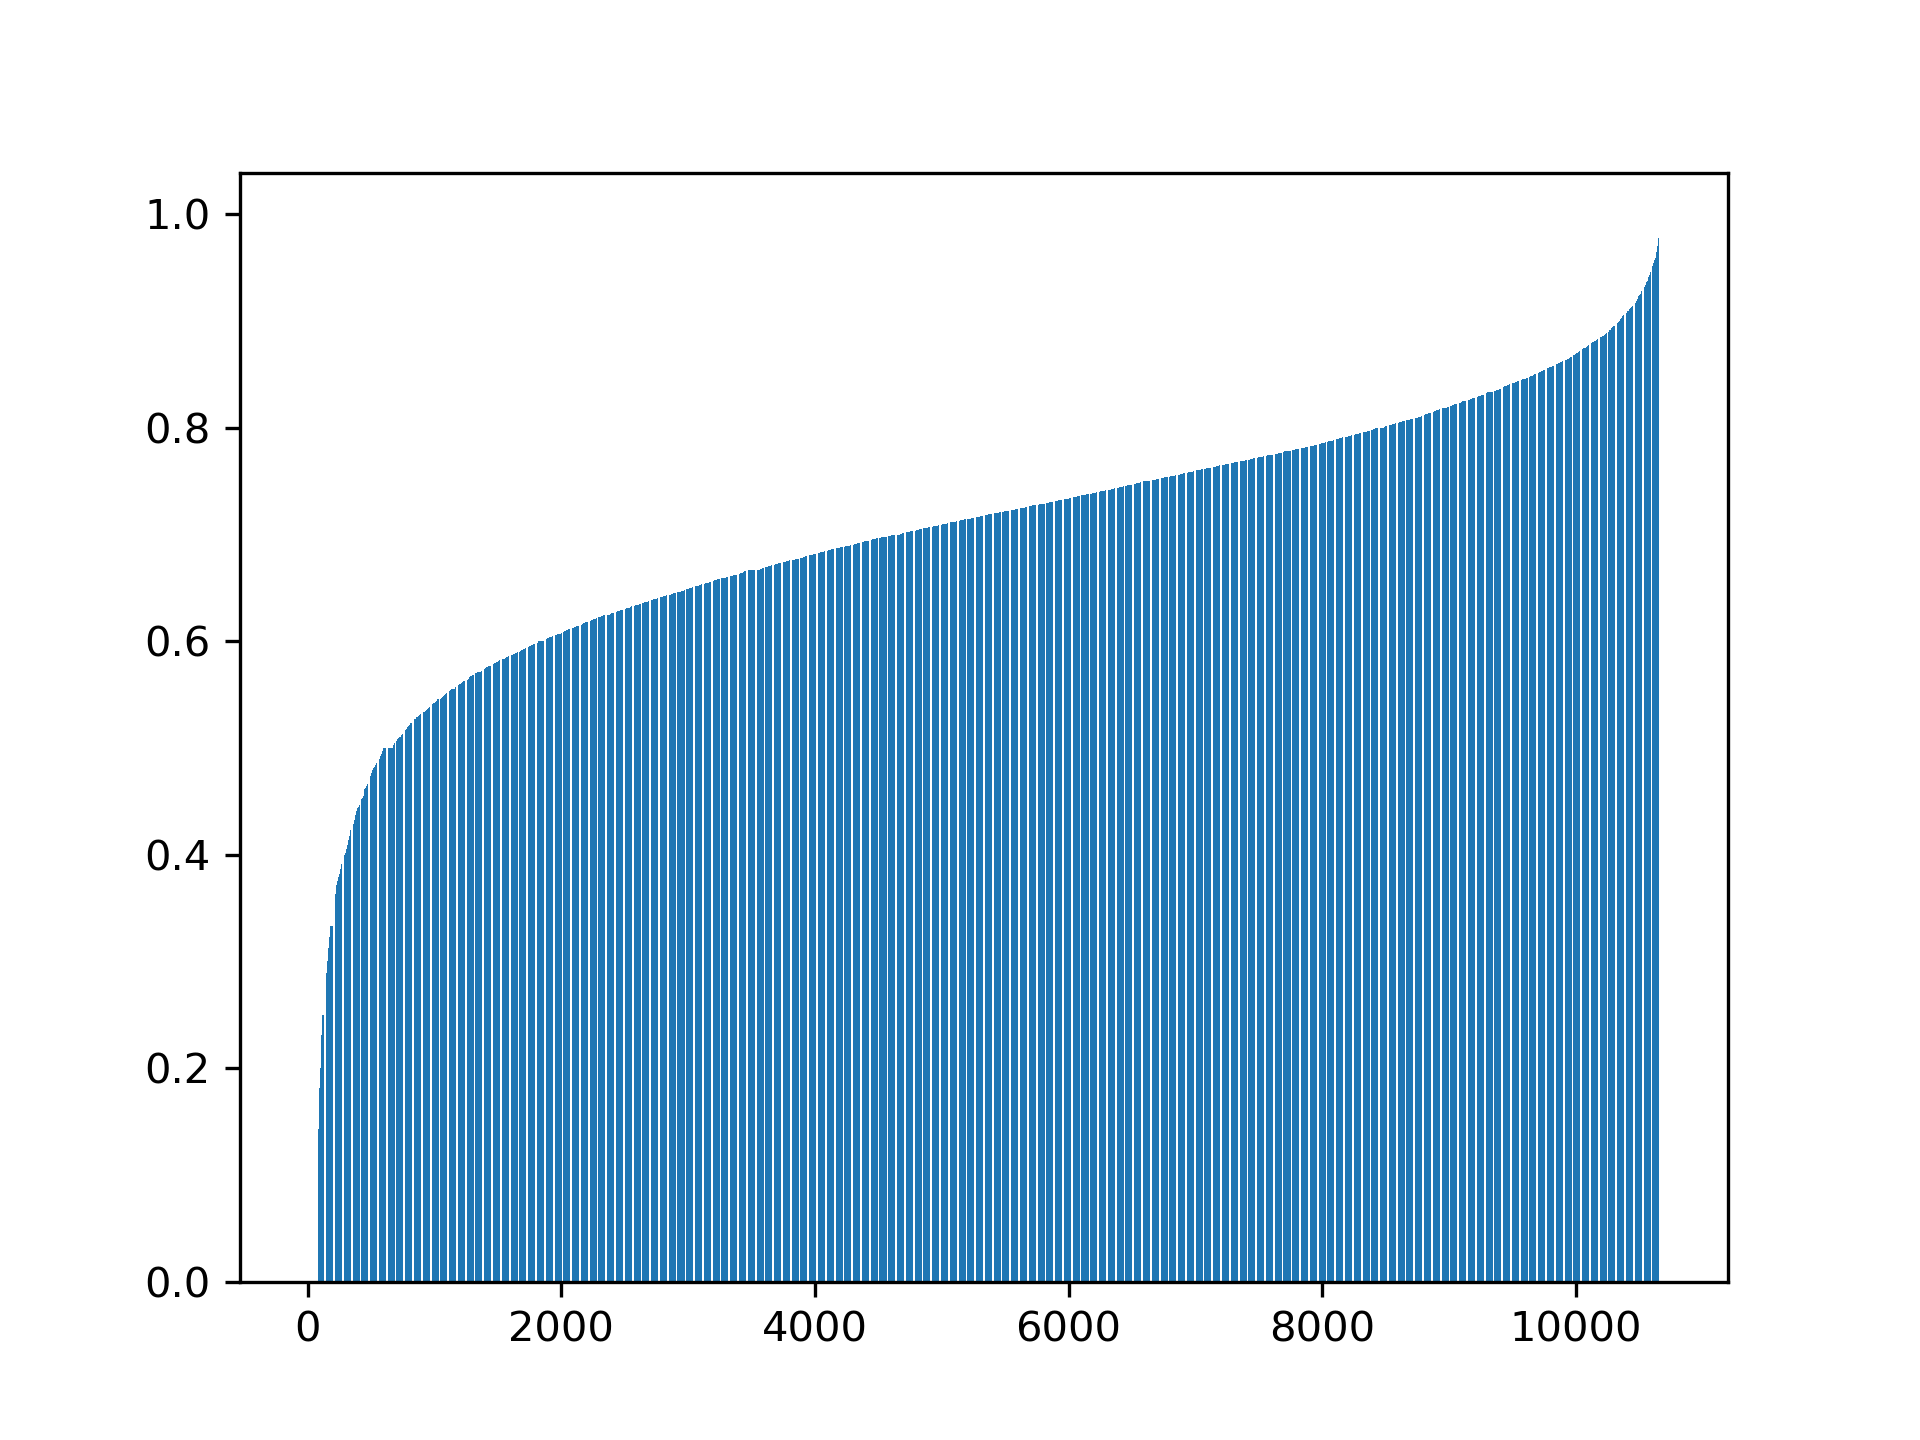
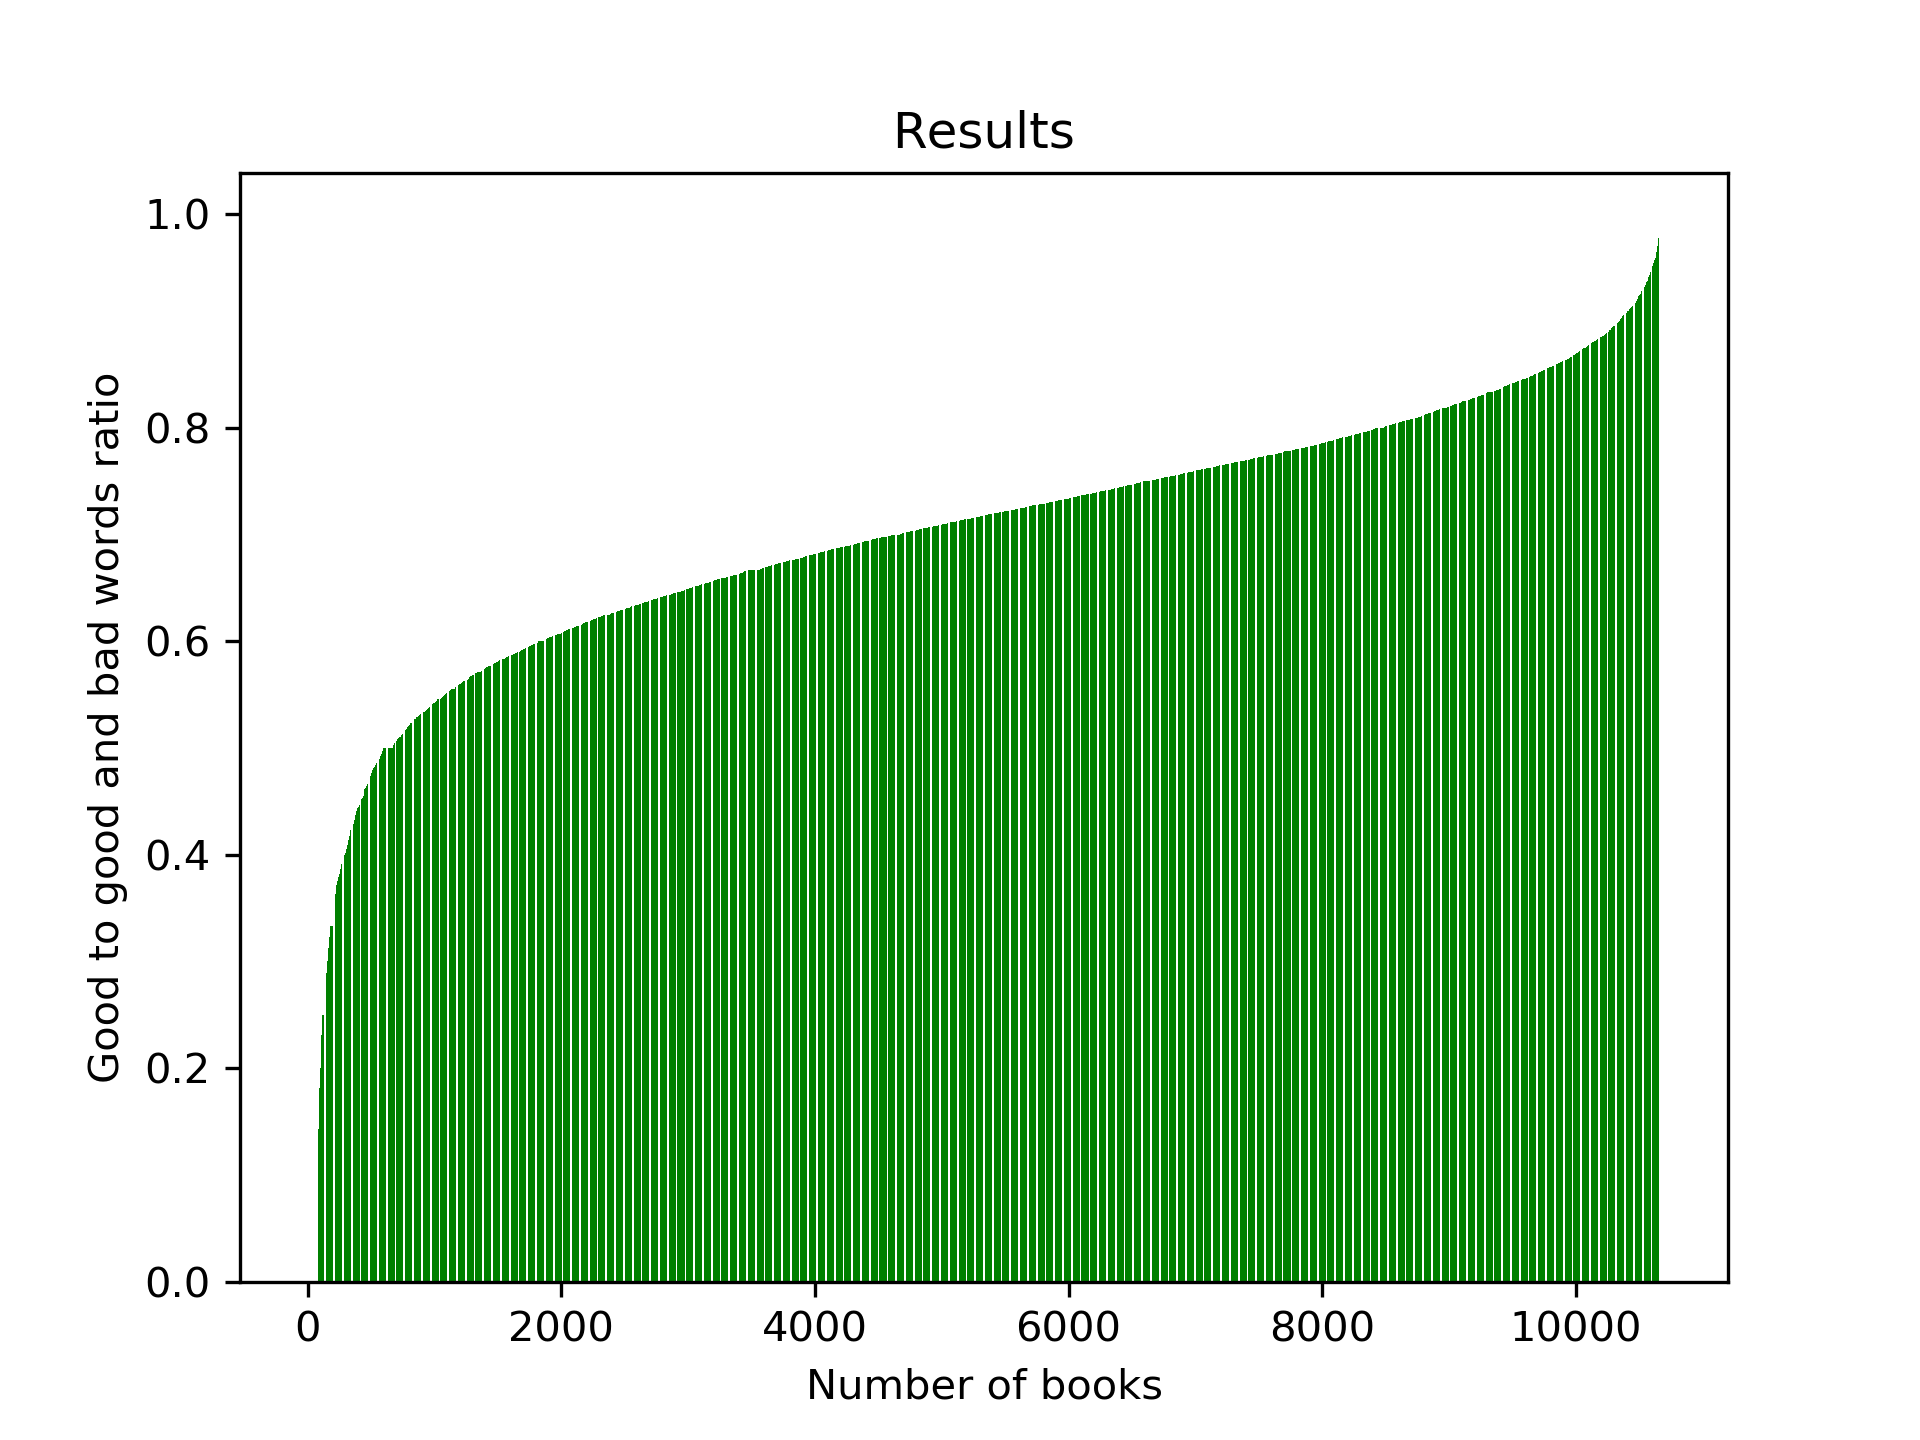
Add files via upload

diff --git a/results_plotter.py b/results_plotter.py
@@ -7,7 +7,9 @@ for word in f.read().split():
     res_list.append(float(word))
 f.close()
 plt.figure()
-plt.bar(np.arange(len(res_list)), sorted(res_list))
-# plt.show()
+plt.title("Results")
+plt.xlabel("Number of books")
+plt.ylabel("Good to good and bad words ratio")
+plt.bar(np.arange(len(res_list)), sorted(res_list), color='green')
 plt.savefig("res_plot.png", dpi=300)
 plt.close()
